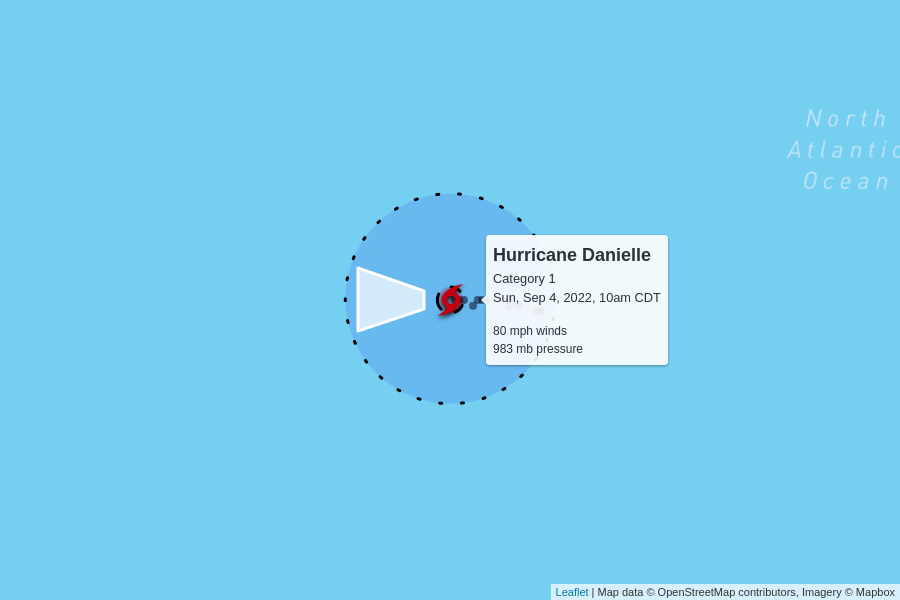
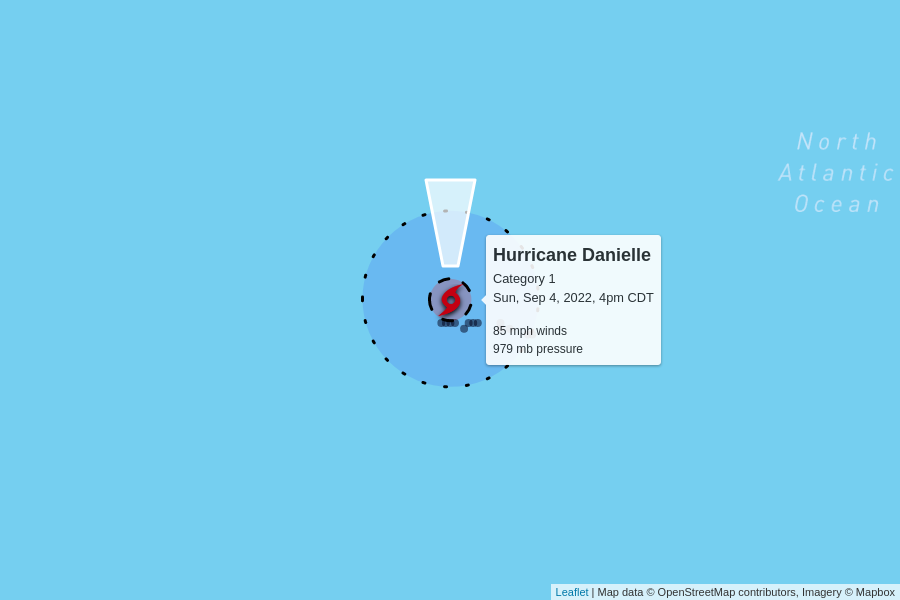
automatic update

Changed region(s): [[0.3733, 0.27, 0.56, 0.57], [0.8711, 0.18, 1.0, 0.36], [0.6533, 0.39, 0.7467, 0.63]]

diff --git a/docs/index.html b/docs/index.html
@@ -100,7 +100,7 @@
         <td colspan="6" class="storm category-1" >
           <h2>
             Hurricane Danielle - Category 1
-            <p class="updated">last updated <span data-time>2022-09-04T15:00:00.000Z</span></p>
+            <p class="updated">last updated <span data-time>2022-09-04T21:00:00.000Z</span></p>
           </h2>
         </td>
       </tr>
@@ -115,12 +115,12 @@
       </tr>
       <tr>
         <td class="spacer"></td>
-        <td>80 mph</td>
-        <td>983 mb</td>
+        <td>85 mph</td>
+        <td>979 mb</td>
         <td>
-          1 mph to the west
+          2 mph to the north
           <br/>
-          <span style="display: inline-block; font-size: 1.5em; transform: rotate(270deg);">↑</span>
+          <span style="display: inline-block; font-size: 1.5em; transform: rotate(360deg);">↑</span>
         </td>
         <td><a href="https://raw.githubusercontent.com/mgwalker/atlantic-hurricanes/main/data/csv/AL052022.csv">AL052022.csv</a></td>
         <td><a href="https://www.nhc.noaa.gov/archive/2022/DANIELLE.shtml?">NHC advisories</a></td>
@@ -144,7 +144,7 @@
         <td colspan="6" class="storm category-0" >
           <h2>
             Tropical Storm Earl
-            <p class="updated">last updated <span data-time>2022-09-04T15:00:00.000Z</span></p>
+            <p class="updated">last updated <span data-time>2022-09-04T21:00:00.000Z</span></p>
           </h2>
         </td>
       </tr>
@@ -160,9 +160,9 @@
       <tr>
         <td class="spacer"></td>
         <td>50 mph</td>
-        <td>999 mb</td>
+        <td>998 mb</td>
         <td>
-          3 mph to the northwest
+          5 mph to the northwest
           <br/>
           <span style="display: inline-block; font-size: 1.5em; transform: rotate(310deg);">↑</span>
         </td>
